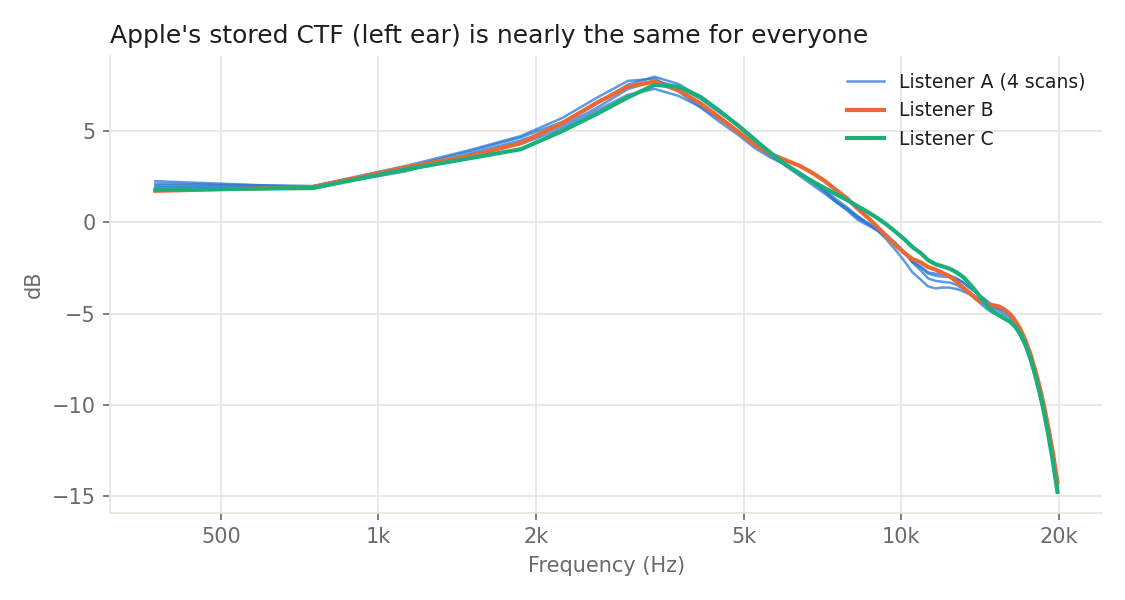
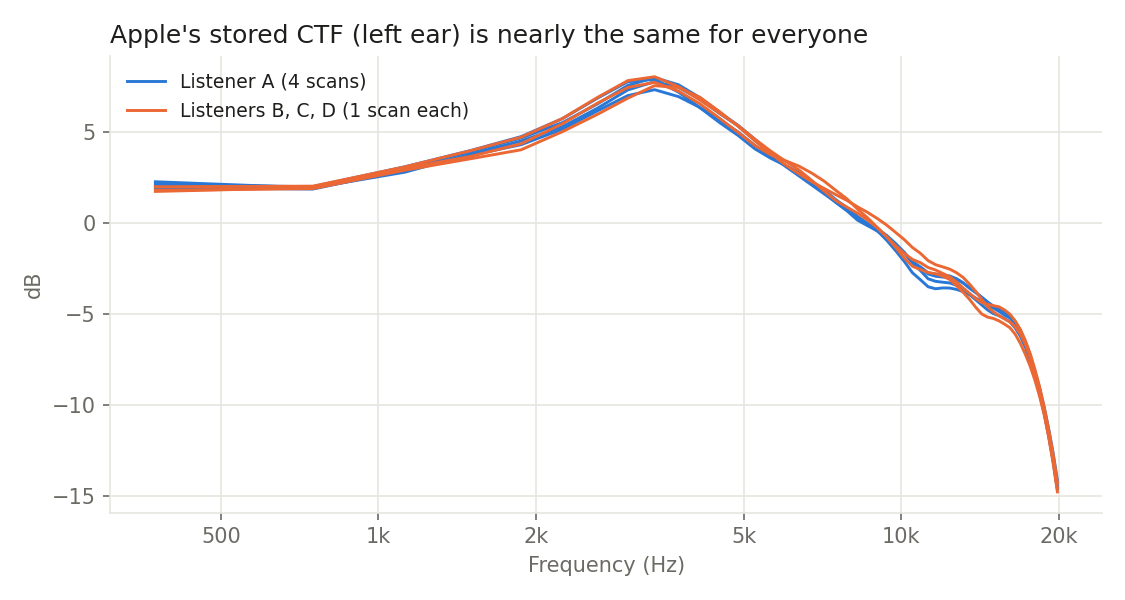
update findings

diff --git a/README.md b/README.md
@@ -139,45 +139,47 @@ consistent (IR correlation ≈ 0.986, delays within ≈ 0.17 samples RMS).
 
 ## How personal is Apple's personalized HRTF?
 
-This compares four scans of one listener (A), one profile each from two more listeners (B and C), and
-Apple's generic HRTF that ships with macOS (`HRIR_General.ir` in AudioDSP.component). The profiles
-were made on three different iPhones, from 2024 to 2026. The comparison suggests Personalized
-Spatial Audio makes real but modest changes.
+This compares four scans of one listener (A), one profile each from three more listeners (B, C and
+D), and Apple's generic HRTF that ships with macOS (`HRIR_General.ir` in AudioDSP.component). The
+profiles were made on four different iPhones, from 2024 to 2026. The comparison suggests
+Personalized Spatial Audio makes real but modest changes.
 
 **Most of every profile is a shared base head.** Each profile's directional curves (each direction
 relative to that profile's own diffuse field) sit 2.7–3.1 dB RMS from Apple's generic head. But all
-three move away from it in much the same way: the deviations are 66–82% correlated, and about 84%
-of their energy is common to all three listeners. What's individual on top of that base is about
-1.0–1.4 dB RMS. Listeners differ from each other by 1.7–2.6 dB RMS, while repeat scans of listener
-A differ by 1.0–1.6 dB (1.2 dB on average). So the difference between two people is only about 1.5–2
-times the scan-to-scan noise. It's largest above 5 kHz, where the pinna shapes the response.
+four move away from it in much the same way: the deviations are 66–82% correlated, and about 82% of
+their energy is common to all four listeners. What's individual on top of that base is about
+1.0–1.5 dB RMS. Listeners differ from each other by 1.6–2.6 dB RMS (2.0 dB on average), while repeat
+scans of listener A differ by 1.0–1.6 dB (1.2 dB on average). So the difference between two people
+is only about 1.5–2 times the scan-to-scan noise. It's largest above 5 kHz, where the pinna shapes
+the response.
 
-![RMS difference of the directional curves over the whole sphere, by frequency: listener vs Apple's generic HRTF is highest at about 2.5-3.5 dB, listener vs listener is 0.9-2.8 dB, and repeat scans of the same listener are lowest at 0.6-1.7 dB](Figures/directional-differences.png)
+![RMS difference of the directional curves over the whole sphere, by frequency: listener vs Apple's generic HRTF is highest at about 2.5-3.5 dB, listener vs listener is 0.9-2.6 dB, and repeat scans of the same listener are lowest at 0.6-1.7 dB](Figures/directional-differences.png)
 
 **The clearest individual features are the pinna notch and head size.** The first pinna notch is
-the main cue for elevation and front/back. For listener A, it sits at 8.2–10.1 kHz in front and at
-±30° in all four scans. For B it's at 6.8–7.1 kHz, for C at 7.6–8.4 kHz, and for the generic head at
-6.3–7.5 kHz. The ITD at 90° ranges from 629 to 703 µs across the three listeners (about 11%), and
-is 721 µs for the generic head.
+the main cue for elevation and front/back. In front and at ±30°, it falls at 6.8–7.1 kHz for listener
+B, 7.6–8.4 kHz for C, 8.3–9.8 kHz for D and 8.2–10.1 kHz across A's four scans. For the generic head it
+falls at 6.3–7.5 kHz. A's scans move it by up to about 1.5 kHz, so only differences larger than that,
+such as A or D against B, clearly stand out from scan noise. The ITD at 90° ranges from 629 to 703 µs
+across the four listeners (about 11%), and is 721 µs for the generic head.
 
-![Straight ahead, left ear, each profile relative to its own diffuse field: the three listeners share a larger 2-4 kHz bump than the generic head, and their 6-10 kHz notch sits at different frequencies](Figures/front-direction.png)
+![Straight ahead, left ear, one panel per listener, each profile relative to its own diffuse field and compared with Apple's generic head: every listener has a larger 2-4 kHz bump than the generic head, and the 6-10 kHz notch sits at a different frequency for each](Figures/front-direction.png)
 
-![First pinna notch frequency, left ear, in front and at 30° left and right: listener A's four scans cluster at 8.2-10.1 kHz, listener B at 6.8-7.1 kHz, listener C at 7.6-8.4 kHz, and Apple's generic head at 6.3-7.5 kHz](Figures/pinna-notch.png)
+![First pinna notch frequency, left ear, in front and at 30° left and right, one row per listener: listener A's four scans spread over 8.2-10.1 kHz, B sits at 6.8-7.1 kHz, C at 7.6-8.4 kHz, D at 8.3-9.8 kHz, and Apple's generic head at 6.3-7.5 kHz](Figures/pinna-notch.png)
 
 **A different HRTF dataset is much further away.** At its 27 directions, an unrelated third-party
 HRTF (3D Sound Labs, as shipped with VLC) differs from each profile by 4.4–4.6 dB RMS. The listeners
-differ from each other by 1.8–2.6 dB at the same directions. That suggests the per-person variation in
+differ from each other by 1.6–2.6 dB at the same directions. That suggests the per-person variation in
 Apple's profiles is smaller than real head-to-head differences. But the datasets were measured and
-processed differently, and only three people were compared.
+processed differently, and only four people were compared.
 
 **There is no personal diffuse-field response.** The stored HRIRs are diffuse-field equalized, so they
 carry no absolute diffuse-field response. The only absolute curve in the file is the 64-point CTF. It
-agrees within 1.8 dB across all three listeners and all scans, and peaks at 7.5–7.9 dB near 3.4 kHz
-for everyone. Apple's generic HRTFs on macOS are diffuse-field equalized too and have no CTF at all.
-That's why this tool doesn't export a diffuse-field HRTF: it would effectively be a population curve,
-not a personal one. A personal diffuse-field or eardrum target needs a real measurement, such as an
+agrees within 1.8 dB across all four listeners and all scans, and peaks at 7.5–8.0 dB near 3.4 kHz for
+everyone. Apple's generic HRTFs on macOS are diffuse-field equalized too and have no CTF at all. That's
+why this tool doesn't export a diffuse-field HRTF: it would effectively be a population curve, not a
+personal one. A personal diffuse-field or eardrum target needs a real measurement, such as an
 audiologist's real-ear (REUR/REUG) measurement or in-ear microphones. For BRIR use this matters less:
-tools like ASH Toolset diffuse-field-calibrate each dataset anyway, so what reaches the BRIR is
-exactly the personal directional and timing part described above.
+tools like ASH Toolset diffuse-field-calibrate each dataset anyway, so what reaches the BRIR is exactly
+the personal directional and timing part described above.
 
-![Apple's stored CTF, left ear, for listener A's four scans and listeners B and C: the curves overlap almost completely, peaking near 3.4 kHz and rolling off above 5 kHz](Figures/ctf-across-listeners.png)
+![Apple's stored CTF, left ear, for listener A's four scans and listeners B, C and D: the curves overlap almost completely, peaking near 3.4 kHz and rolling off above 5 kHz](Figures/ctf-across-listeners.png)
